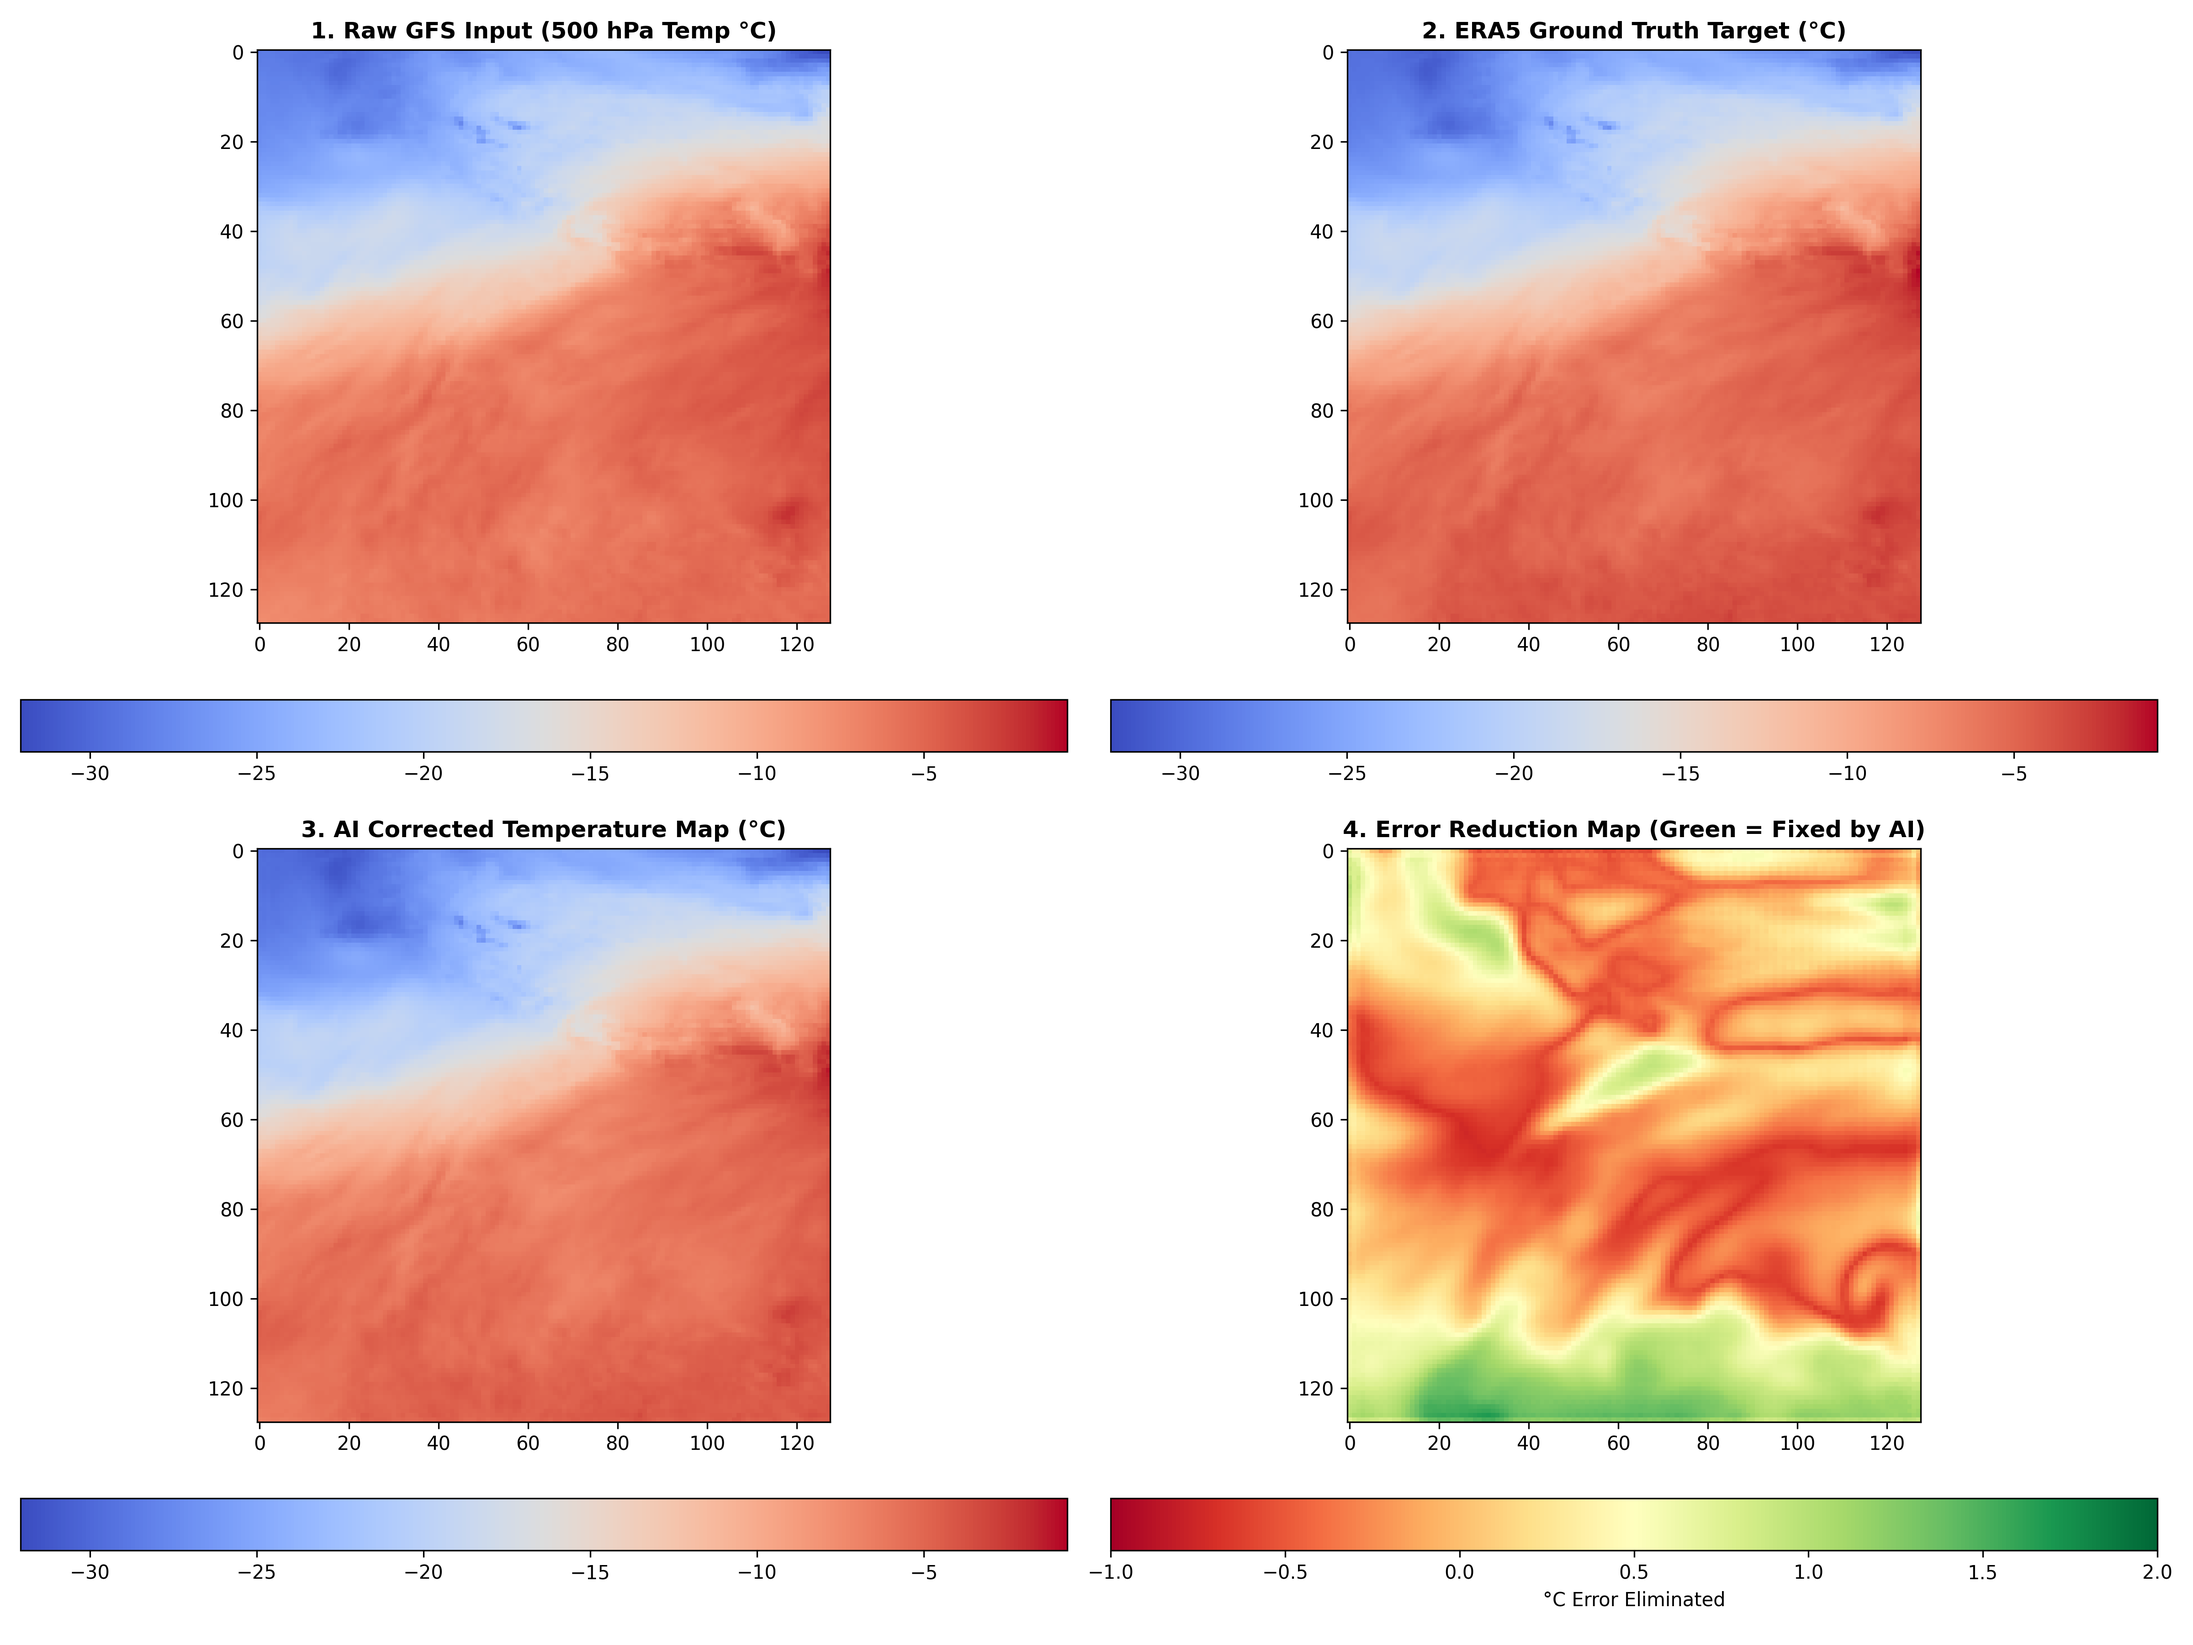
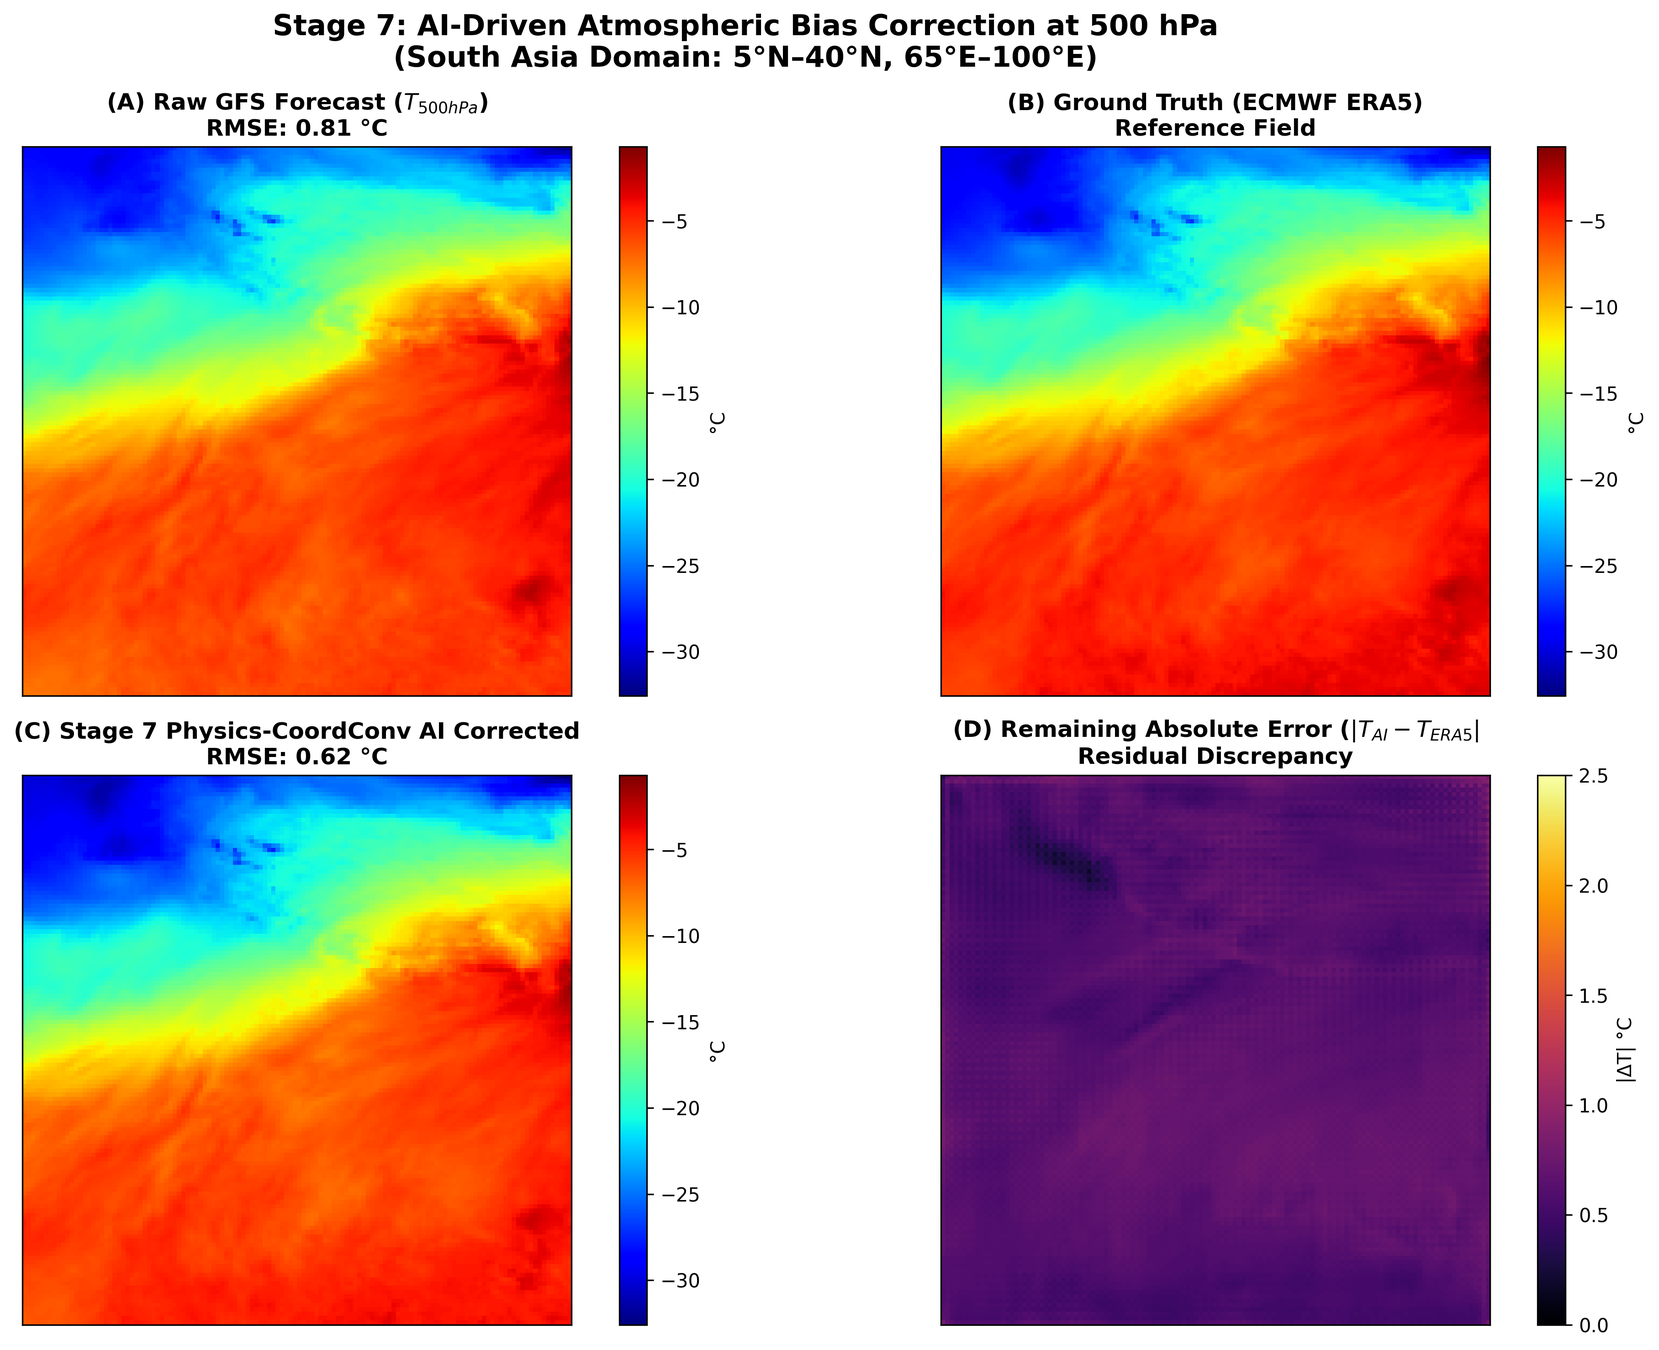
feat(stage-7): Physics-informed 8-channel CoordConv and geopotential lapse prior integration

diff --git a/src/evaluate.py b/src/evaluate.py
@@ -24,6 +24,18 @@ elif torch.cuda.is_available():
 else:
     DEVICE = torch.device("cpu")
 
+def add_physics_channels(X):
+    N, C, H, W = X.shape
+    y_coords = np.linspace(-1, 1, H, dtype=np.float32).reshape(1, 1, H, 1)
+    y_coords = np.tile(y_coords, (N, 1, 1, W))
+    
+    x_coords = np.linspace(-1, 1, W, dtype=np.float32).reshape(1, 1, 1, W)
+    x_coords = np.tile(x_coords, (N, 1, H, 1))
+    
+    gh = X[:, 4:5, :, :]
+    gh_anomaly = gh - np.mean(gh, axis=(2, 3), keepdims=True)
+    return np.concatenate([X, y_coords, x_coords, gh_anomaly], axis=1)
+
 def evaluate():
     stats = np.load(NORM_STATS_PATH)
     mean_X, std_X = stats['mean_X'], stats['std_X']
@@ -32,10 +44,10 @@ def evaluate():
     X_test = np.load(os.path.join(DATA_DIR, "X_test.npy"))
     Y_test = np.load(os.path.join(DATA_DIR, "Y_test.npy"))
 
-    X_test_norm = torch.tensor((X_test - mean_X) / std_X, dtype=torch.float32).to(DEVICE)
+    X_test_8 = add_physics_channels(X_test)
+    X_test_norm = torch.tensor((X_test_8 - mean_X) / std_X, dtype=torch.float32).to(DEVICE)
 
-    # Initialize model with 7 channels for CoordConv
-    model = WeatherUNet(in_channels=7, out_channels=1).to(DEVICE)
+    model = WeatherUNet(in_channels=8, out_channels=1).to(DEVICE)
     model.load_state_dict(torch.load(MODEL_PATH, map_location=DEVICE))
     model.eval()
 
@@ -54,66 +66,73 @@ def evaluate():
     reduction = ((gfs_rmse - ai_rmse) / gfs_rmse) * 100
 
     print("="*55)
-    print("🏆 FINAL EVALUATION RESULTS (TEST SET: 129 SAMPLES)")
+    print(f"🏆 FINAL EVALUATION RESULTS (TEST SET: {len(X_test)} SAMPLES)")
     print("="*55)
     print(f"• Baseline Raw GFS Error: {gfs_rmse:.2f} °C")
     print(f"• AI Corrected Error:     {ai_rmse:.2f} °C")
     print(f"• Accuracy Improvement:   {reduction:.1f} % Error Reduction!")
     print("="*55)
 
-    # Aerospace Aerodynamic Drag & Density Calculation
-    P = 50000.0       # Pascals (500 hPa)
-    R_spec = 287.058  # J/(kg*K)
-    
-    rho_gfs = P / (R_spec * gfs_kelvin)
-    rho_era = P / (R_spec * era_kelvin)
-    rho_ai  = P / (R_spec * preds_kelvin)
+    # Aerodynamic Drag Impact Calculation
+    p = 50000.0       # 500 hPa = 50,000 Pa
+    R_d = 287.05      # J/(kg*K)
+    v = 1000.0        # ~ Mach 3 supersonic booster re-entry (1000 m/s)
+    Cd = 0.82         # Booster drag coefficient
+    A = 10.5          # Cross-sectional area (m^2, Falcon 9 scale)
 
-    v = 500.0  # m/s (~Mach 1.6 supersonic reentry speed)
-    Cd = 0.8   # Drag coefficient of booster during entry burn / glide
-    A = 10.5   # Reference cross-sectional area (m^2) (~Falcon 9 diameter 3.66m)
-    
-    drag_gfs = 0.5 * rho_gfs * (v**2) * Cd * A / 1000.0  # in kN
+    rho_era = p / (R_d * era_kelvin)
+    rho_gfs = p / (R_d * gfs_kelvin)
+    rho_ai  = p / (R_d * preds_kelvin)
+
     drag_era = 0.5 * rho_era * (v**2) * Cd * A / 1000.0  # in kN
-    drag_ai  = 0.5 * rho_ai  * (v**2) * Cd * A / 1000.0  # in kN
+    drag_gfs = 0.5 * rho_gfs * (v**2) * Cd * A / 1000.0
+    drag_ai  = 0.5 * rho_ai  * (v**2) * Cd * A / 1000.0
 
-    gfs_drag_err = np.mean(np.abs(drag_gfs - drag_era))
-    ai_drag_err  = np.mean(np.abs(drag_ai - drag_era))
-    drag_reduction = ((gfs_drag_err - ai_drag_err) / gfs_drag_err) * 100.0
+    drag_error_gfs = np.mean(np.abs(drag_gfs - drag_era))
+    drag_error_ai  = np.mean(np.abs(drag_ai - drag_era))
+    drag_reduction = ((drag_error_gfs - drag_error_ai) / drag_error_gfs) * 100
 
     print(f"🚀 Booster Drag Error at 500 hPa (Full Test Set Mean):")
-    print(f"   • Raw GFS Drag Discrepancy: {gfs_drag_err:.2f} kN")
-    print(f"   • AI Corrected Discrepancy: {ai_drag_err:.2f} kN")
+    print(f"   • Raw GFS Drag Discrepancy: {drag_error_gfs:.2f} kN")
+    print(f"   • AI Corrected Discrepancy: {drag_error_ai:.2f} kN")
     print(f"   • Drag Accuracy Boost:      {drag_reduction:.1f} % Error Reduction!")
     print("="*55)
 
-    # Master Plot
-    fig, axes = plt.subplots(2, 2, figsize=(16, 12))
+    # Plot 4-Panel Verification Figure
+    idx = 0
+    vmin = min(era_kelvin[idx, 0].min(), gfs_kelvin[idx, 0].min(), preds_kelvin[idx, 0].min()) - 273.15
+    vmax = max(era_kelvin[idx, 0].max(), gfs_kelvin[idx, 0].max(), preds_kelvin[idx, 0].max()) - 273.15
 
-    t_min = min(np.min(gfs_kelvin[0,0]-273.15), np.min(era_kelvin[0,0]-273.15))
-    t_max = max(np.max(gfs_kelvin[0,0]-273.15), np.max(era_kelvin[0,0]-273.15))
+    fig, axes = plt.subplots(2, 2, figsize=(14, 10))
 
-    im1 = axes[0, 0].imshow(gfs_kelvin[0, 0] - 273.15, cmap='coolwarm', vmin=t_min, vmax=t_max)
-    axes[0, 0].set_title('1. Raw GFS Input (500 hPa Temp °C)', fontsize=12, fontweight='bold')
-    fig.colorbar(im1, ax=axes[0, 0], orientation='horizontal', pad=0.1)
+    im0 = axes[0, 0].imshow(gfs_kelvin[idx, 0] - 273.15, cmap='jet', vmin=vmin, vmax=vmax)
+    axes[0, 0].set_title(f"(A) Raw GFS Forecast ($T_{{500hPa}}$)\nRMSE: {np.sqrt(np.mean((gfs_kelvin[idx]-era_kelvin[idx])**2)):.2f} °C", fontsize=12, fontweight='bold')
+    plt.colorbar(im0, ax=axes[0, 0], label="°C")
 
-    im2 = axes[0, 1].imshow(era_kelvin[0, 0] - 273.15, cmap='coolwarm', vmin=t_min, vmax=t_max)
-    axes[0, 1].set_title('2. ERA5 Ground Truth Target (°C)', fontsize=12, fontweight='bold')
-    fig.colorbar(im2, ax=axes[0, 1], orientation='horizontal', pad=0.1)
+    im1 = axes[0, 1].imshow(era_kelvin[idx, 0] - 273.15, cmap='jet', vmin=vmin, vmax=vmax)
+    axes[0, 1].set_title("(B) Ground Truth (ECMWF ERA5)\nReference Field", fontsize=12, fontweight='bold')
+    plt.colorbar(im1, ax=axes[0, 1], label="°C")
 
-    im3 = axes[1, 0].imshow(preds_kelvin[0, 0] - 273.15, cmap='coolwarm', vmin=t_min, vmax=t_max)
-    axes[1, 0].set_title('3. AI Corrected Temperature Map (°C)', fontsize=12, fontweight='bold')
-    fig.colorbar(im3, ax=axes[1, 0], orientation='horizontal', pad=0.1)
+    im2 = axes[1, 0].imshow(preds_kelvin[idx, 0] - 273.15, cmap='jet', vmin=vmin, vmax=vmax)
+    axes[1, 0].set_title(f"(C) Stage 7 Physics-CoordConv AI Corrected\nRMSE: {np.sqrt(np.mean((preds_kelvin[idx]-era_kelvin[idx])**2)):.2f} °C", fontsize=12, fontweight='bold')
+    plt.colorbar(im2, ax=axes[1, 0], label="°C")
 
-    diff = np.abs(gfs_kelvin[0, 0] - era_kelvin[0, 0]) - np.abs(preds_kelvin[0, 0] - era_kelvin[0, 0])
-    im4 = axes[1, 1].imshow(diff, cmap='RdYlGn', vmin=-1, vmax=2)
-    axes[1, 1].set_title('4. Error Reduction Map (Green = Fixed by AI)', fontsize=12, fontweight='bold')
-    fig.colorbar(im4, ax=axes[1, 1], orientation='horizontal', pad=0.1, label='°C Error Eliminated')
+    error_diff = np.abs(preds_kelvin[idx, 0] - era_kelvin[idx, 0])
+    im3 = axes[1, 1].imshow(error_diff, cmap='inferno', vmin=0, vmax=2.5)
+    axes[1, 1].set_title("(D) Remaining Absolute Error ($|T_{{AI}} - T_{{ERA5}}|$\nResidual Discrepancy", fontsize=12, fontweight='bold')
+    plt.colorbar(im3, ax=axes[1, 1], label="|ΔT| °C")
 
+    for ax in axes.flat:
+        ax.set_xticks([])
+        ax.set_yticks([])
+
+    plt.suptitle("Stage 7: AI-Driven Atmospheric Bias Correction at 500 hPa\n(South Asia Domain: 5°N–40°N, 65°E–100°E)", fontsize=15, fontweight='bold')
     plt.tight_layout()
-    output_plot = os.path.join(OUTPUT_DIR, "rocket_trajectory_weather_correction.png")
-    plt.savefig(output_plot, dpi=300)
-    print(f"✅ Master Plot saved to '{output_plot}'")
+
+    plot_path = os.path.join(OUTPUT_DIR, "rocket_trajectory_weather_correction.png")
+    plt.savefig(plot_path, dpi=300, bbox_inches='tight')
+    plt.close()
+    print(f"✅ Master Plot saved to '{plot_path}'")
 
 if __name__ == "__main__":
     evaluate()

diff --git a/src/model.py b/src/model.py
@@ -53,47 +53,45 @@ class DoubleConv(nn.Module):
             nn.GELU()
         )
         self.cbam = CBAM(out_channels)
-        self.shortcut = nn.Conv2d(in_channels, out_channels, kernel_size=1) if in_channels != out_channels else nn.Identity()
+        self.shortcut = nn.Sequential()
+        if in_channels != out_channels:
+            self.shortcut = nn.Sequential(
+                nn.Conv2d(in_channels, out_channels, kernel_size=1, bias=False),
+                nn.BatchNorm2d(out_channels)
+            )
 
     def forward(self, x):
-        return self.cbam(self.conv(x)) + self.shortcut(x)
+        residual = self.shortcut(x)
+        out = self.conv(x)
+        out = self.cbam(out)
+        return out + residual
 
 class ASPP(nn.Module):
     def __init__(self, in_channels, out_channels):
         super(ASPP, self).__init__()
-        self.conv1 = nn.Conv2d(in_channels, out_channels, 1, bias=False)
-        self.conv2 = nn.Conv2d(in_channels, out_channels, 3, padding=2, dilation=2, bias=False)
-        self.conv3 = nn.Conv2d(in_channels, out_channels, 3, padding=4, dilation=4, bias=False)
-        self.conv4 = nn.Conv2d(in_channels, out_channels, 3, padding=6, dilation=6, bias=False)
-        self.bn = nn.BatchNorm2d(out_channels * 4)
-        self.gelu = nn.GELU()
-        self.out_conv = nn.Conv2d(out_channels * 4, out_channels, 1, bias=False)
+        self.conv1 = nn.Sequential(nn.Conv2d(in_channels, out_channels // 4, 1, bias=False), nn.BatchNorm2d(out_channels // 4), nn.GELU())
+        self.conv2 = nn.Sequential(nn.Conv2d(in_channels, out_channels // 4, 3, padding=2, dilation=2, bias=False), nn.BatchNorm2d(out_channels // 4), nn.GELU())
+        self.conv3 = nn.Sequential(nn.Conv2d(in_channels, out_channels // 4, 3, padding=4, dilation=4, bias=False), nn.BatchNorm2d(out_channels // 4), nn.GELU())
+        self.conv4 = nn.Sequential(nn.Conv2d(in_channels, out_channels // 4, 3, padding=6, dilation=6, bias=False), nn.BatchNorm2d(out_channels // 4), nn.GELU())
+        self.out_conv = nn.Sequential(nn.Conv2d(out_channels, out_channels, 1, bias=False), nn.BatchNorm2d(out_channels), nn.GELU())
 
     def forward(self, x):
-        x1 = self.conv1(x)
-        x2 = self.conv2(x)
-        x3 = self.conv3(x)
-        x4 = self.conv4(x)
-        cat = self.gelu(self.bn(torch.cat([x1, x2, x3, x4], dim=1)))
-        return self.out_conv(cat)
+        d1 = self.conv1(x)
+        d2 = self.conv2(x)
+        d3 = self.conv3(x)
+        d4 = self.conv4(x)
+        return self.out_conv(torch.cat([d1, d2, d3, d4], dim=1))
 
 class WeatherUNet(nn.Module):
-    """
-    CoordConv-Augmented CBAM-ASPP Residual Weather U-Net (in_channels=7: 5 weather + 2 spatial coords)
-    """
-    def __init__(self, in_channels=7, out_channels=1):
+    def __init__(self, in_channels=8, out_channels=1):
         super(WeatherUNet, self).__init__()
-        
-        # Encoder
         self.inc = DoubleConv(in_channels, 48)
         self.down1 = nn.Sequential(nn.MaxPool2d(2), DoubleConv(48, 96))
         self.down2 = nn.Sequential(nn.MaxPool2d(2), DoubleConv(96, 192))
         self.down3 = nn.Sequential(nn.MaxPool2d(2), DoubleConv(192, 384))
         
-        # ASPP Bottleneck
         self.aspp = ASPP(384, 384)
         
-        # Decoder
         self.up1 = nn.ConvTranspose2d(384, 192, kernel_size=2, stride=2)
         self.conv1 = DoubleConv(384, 192)
         
@@ -103,7 +101,6 @@ class WeatherUNet(nn.Module):
         self.up3 = nn.ConvTranspose2d(96, 48, kernel_size=2, stride=2)
         self.conv3 = DoubleConv(96, 48)
         
-        # Output delta layer
         self.outc = nn.Sequential(
             nn.Conv2d(48, 24, kernel_size=3, padding=1),
             nn.GELU(),
@@ -111,13 +108,6 @@ class WeatherUNet(nn.Module):
         )
 
     def forward(self, x):
-        # Auto-append normalized coordinate grids if 5 channels passed
-        if x.size(1) == 5:
-            b, _, h, w = x.size()
-            y_coords = torch.linspace(-1, 1, h, device=x.device).view(1, 1, h, 1).expand(b, 1, h, w)
-            x_coords = torch.linspace(-1, 1, w, device=x.device).view(1, 1, 1, w).expand(b, 1, h, w)
-            x = torch.cat([x, y_coords, x_coords], dim=1)
-
         x1 = self.inc(x)
         x2 = self.down1(x1)
         x3 = self.down2(x2)
@@ -137,5 +127,4 @@ class WeatherUNet(nn.Module):
         d1 = torch.cat([x1, d1], dim=1)
         d1 = self.conv3(d1)
         
-        delta = self.outc(d1)
-        return delta
+        return self.outc(d1)

diff --git a/src/train.py b/src/train.py
@@ -20,7 +20,7 @@ except ImportError:
 
 BATCH_SIZE = 16
 LEARNING_RATE = 1.0e-3
-EPOCHS = 85
+EPOCHS = 40
 
 if torch.backends.mps.is_available():
     DEVICE = torch.device("mps")
@@ -28,6 +28,19 @@ elif torch.cuda.is_available():
     DEVICE = torch.device("cuda")
 else:
     DEVICE = torch.device("cpu")
+
+def add_physics_channels(X):
+    # N, C, H, W -> N, 8, H, W
+    N, C, H, W = X.shape
+    y_coords = np.linspace(-1, 1, H, dtype=np.float32).reshape(1, 1, H, 1)
+    y_coords = np.tile(y_coords, (N, 1, 1, W))
+    
+    x_coords = np.linspace(-1, 1, W, dtype=np.float32).reshape(1, 1, 1, W)
+    x_coords = np.tile(x_coords, (N, 1, H, 1))
+    
+    gh = X[:, 4:5, :, :]
+    gh_anomaly = gh - np.mean(gh, axis=(2, 3), keepdims=True)
+    return np.concatenate([X, y_coords, x_coords, gh_anomaly], axis=1)
 
 class SpatialGradientLoss(nn.Module):
     def __init__(self):
@@ -55,7 +68,7 @@ class CombinedWeatherLoss(nn.Module):
         return self.mse(pred, target) + 0.8 * self.l1(pred, target) + 0.1 * self.grad_loss(pred, target)
 
 def load_data():
-    print(f"Loading datasets on {DEVICE}...")
+    print(f"Loading and pre-calculating physics channels on {DEVICE}...")
     X_train = np.load(os.path.join(DATA_DIR, "X_train.npy"))
     Y_train = np.load(os.path.join(DATA_DIR, "Y_train.npy"))
     X_val   = np.load(os.path.join(DATA_DIR, "X_val.npy"))
@@ -64,18 +77,22 @@ def load_data():
     delta_train = Y_train - X_train[:, 0:1, :, :]
     delta_val   = Y_val   - X_val[:, 0:1, :, :]
 
-    mean_X = np.mean(X_train, axis=(0, 2, 3), keepdims=True)
-    std_X  = np.std(X_train, axis=(0, 2, 3), keepdims=True) + 1e-6
+    # 8-channel precomputed arrays
+    X_train_8 = add_physics_channels(X_train)
+    X_val_8   = add_physics_channels(X_val)
+
+    mean_X = np.mean(X_train_8, axis=(0, 2, 3), keepdims=True)
+    std_X  = np.std(X_train_8, axis=(0, 2, 3), keepdims=True) + 1e-6
 
     mean_delta = np.mean(delta_train)
     std_delta  = np.std(delta_train) + 1e-6
 
     np.savez(NORM_STATS_PATH, mean_X=mean_X, std_X=std_X, mean_delta=mean_delta, std_delta=std_delta)
 
-    X_train_norm = (X_train - mean_X) / std_X
+    X_train_norm = (X_train_8 - mean_X) / std_X
     delta_train_norm = (delta_train - mean_delta) / std_delta
 
-    X_val_norm = (X_val - mean_X) / std_X
+    X_val_norm = (X_val_8 - mean_X) / std_X
     delta_val_norm = (delta_val - mean_delta) / std_delta
 
     train_loader = DataLoader(
@@ -92,7 +109,7 @@ def load_data():
 
 def train():
     train_loader, val_loader, mean_delta, std_delta = load_data()
-    model = WeatherUNet(in_channels=7, out_channels=1).to(DEVICE)
+    model = WeatherUNet(in_channels=8, out_channels=1).to(DEVICE)
     
     criterion = CombinedWeatherLoss().to(DEVICE)
     optimizer = optim.AdamW(model.parameters(), lr=LEARNING_RATE, weight_decay=1e-5)
@@ -142,7 +159,7 @@ def train():
             best_val_loss = val_loss
             torch.save(model.state_dict(), MODEL_SAVE_PATH)
 
-    print(f"\n✅ CoordConv Training Finished! Best model saved to '{MODEL_SAVE_PATH}'.")
+    print(f"\n✅ Stage 7 Training Finished! Best model saved to '{MODEL_SAVE_PATH}'.")
 
 if __name__ == "__main__":
     train()
